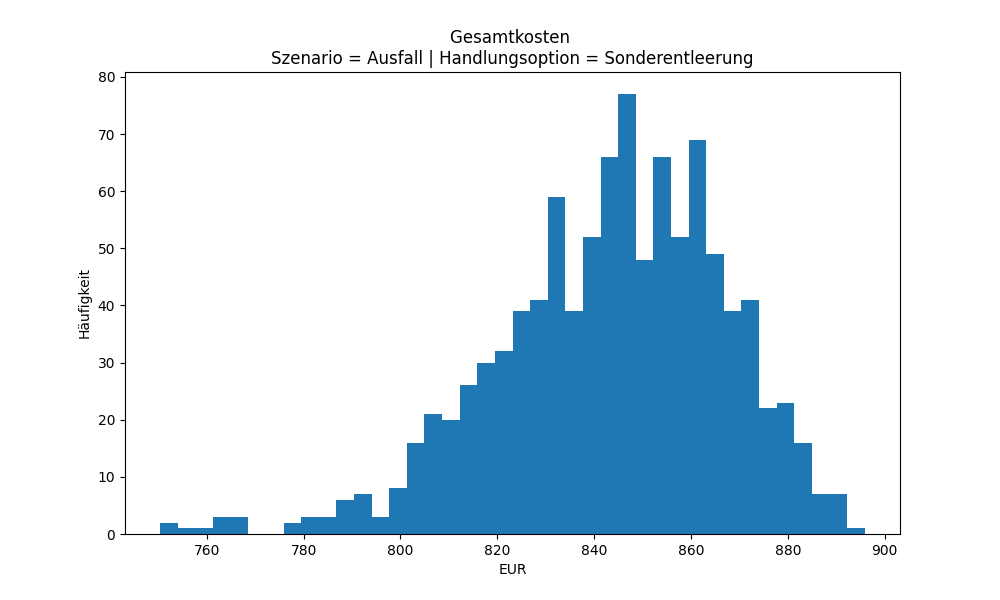
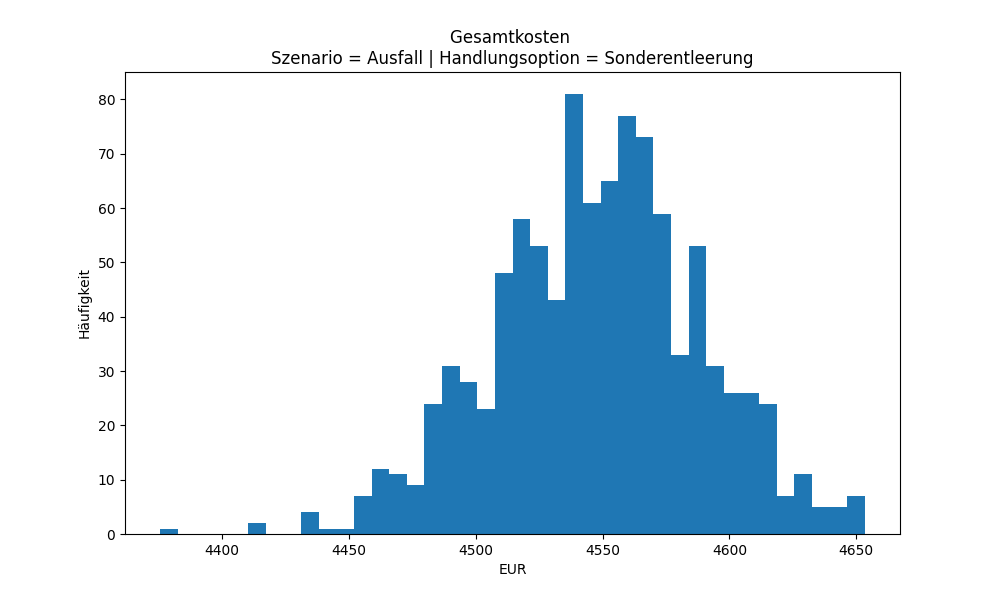
Sim Logik, Plots

diff --git a/simulation/simulation.py b/simulation/simulation.py
@@ -42,7 +42,7 @@ def simulation_einzeln(seed, szenario, handlungsoption):
         "kosten_tag": model.kosten_tag,
         "anzahl_bewohner_tag": model.anzahl_bewohner_tag, 
         "anzahl_besuch_tag": model.anzahl_besuch_tag,
-        "muellmenge_tag": model.muellmenge_tag,
+        "fuellmenge_tag": model.fuellmenge_tag,
         "kapazitaet_tag": model.kapazitaet_tag,
         "ueberfuellungsrate_tag": model.ueberfuellungsrate_tag,
         "sonderentleerung_kosten_tag": model.sonderentleerung_kosten_tag,
@@ -103,7 +103,7 @@ Jeden Tag wird Müll durch die Bewohner und ggf. den Gästen erzeugt. Die Anzahl
 Der Müll wird in die Mülltonne geschmissen (Füllstand hinzugefügt).
 Der Leertag der Mülltage wird zu Beginn der Simulation per Zufall gefällt.
 Alle 14 Tage erfolgt eine reguläre Leerung, solange der Leertag nicht auf einen Feiertag oder Ausfalltag fällt.
-Kommt es zu einer Überfüllung (Müllmenge > Kapazität), so entstehen Überfüllungszusatzkosten.
+Kommt es zu einer Überfüllung (Müllmenge > Kapazität), so entstehen Überfüllungszusatzkosten bei der Abhlung.
 Bei mehrfacher Überfüllung kann (wenn die Kapazitäten es hergeben) die Tonnenkapazität erhöht werden. 
 Bei der Handlungsoption Sonderentleerung wird beim Erreichen eines bestimmten Füllstands die Leerung ausgelöst. Diese verusacht zusätzliche Kosten.
 """
@@ -118,6 +118,8 @@ class MuellentsorgungsSystem:
         self.leertag = self.rng.randint(0, 4) # Montag=0/Dienstag=1/Mittwoch=2/Donnerstag=3/Freitag=4
         # Feiertage, die auf den Leertag fallen
         self.feiertage = berechne_feiertage(self.leertag, TAGE, START_JAHR)
+        # Zähler seit letzter Leerung
+        self.tage_seit_letzter_leerung = 0
 
         # Mülltonnen Startwerte
         self.kapazitaet = 80 # Kapazität
@@ -129,129 +131,110 @@ class MuellentsorgungsSystem:
         self.anzahl_bewohner_tag = [] # Anzahl der Bewohner
         self.anzahl_besuch_tag = [] # Anzahl der Besucher
         self.ausfall_tag = [] # Indikator, ob Ausfall stattgefunden hat
-        self.muellmenge_tag = [] # Füllmenge der Tonne
+        self.fuellmenge_tag = [] # Füllmenge der Tonne
         self.kapazitaet_tag = [] # Kapazität der Tonne
         self.ueberfuellungsrate_tag = [] # Überfüllungsrate
         self.sonderentleerung_kosten_tag = [] # Kosten für die Sonderentleerung
         self.ueberfuellung_kosten_tag = [] # Kosten bei Überfüllung 
 
         # Prozess starten 
-        self.env.process(self.muellproduktion()) # Müllproduktion
-        self.env.process(self.ueberfuellung()) # Überfüllung wird geprüft
-        self.env.process(self.leerung_regulaere()) # Reguläre Leerung der Tonne (alle 14 Tage)
-        self.env.process(self.leerung_sonder()) # Sonderleerung (bei Handlungsoption Sonderentleerung)
-        
+        self.env.process(self.muellzyklus_taeglich()) # Müllzyklus (Entstehung bis Entsorgung)
 
-    # Prozess: Müllproduktion  ---
-    def muellproduktion(self):
+    def muellzyklus_taeglich(self):
         while True:
             tag = int(self.env.now)
-            # Müll der Bewohner (Szenario: Normales Müllaufkommen)
-            anzahl_bewohner = ANZAHL_BEWOHNER 
+            # Bestimmung des Datums des aktuellen Tages (Für Feiertag)
+            tag_datum = date(START_JAHR, 1, 1) + timedelta(days=tag)
+            self.tage_seit_letzter_leerung += 1
+
+            # Indikator, ob Tag ein Leertag ist (Wenn Tag auf Wochen-Leertag fällt und zwei Wochen seit der letzten Leerung vergangen sind)
+            ist_leertag = (tag_datum.weekday() == self.leertag and self.tage_seit_letzter_leerung >= 14)
+            # Indikator, ob Tag ein Feiertag ist
+            ist_feiertag = (tag_datum in self.feiertage)
+
+
+            # -------------------------
+            # Prozess: Müllproduktion  
+
+            # Müll der Bewohner (Szenario: Normales Müllaufkommen):
+            anzahl_bewohner = ANZAHL_BEWOHNER
             # Mit eines Wahrscheinlichkeit sind die Bewohner aus dem Haus
             if self.rng.random() < P_ABWESEND:
                 anzahl_bewohner = self.rng.randint(0, anzahl_bewohner)
             self.fuellstand += anzahl_bewohner * DEFAULT_RESTMUELL_PRO_PERSON_TAG
 
             # Müll der Gäste (Szenario: erhöhter Besuch)
-            if self.rng.random() < self.szenario["P_BESUCH"]: 
-                anzahl_gaeste = self.rng.randint(1, 10) # Besucheranzahl zwischen 1 und 10
-                self.fuellstand += anzahl_gaeste * DEFAULT_RESTMUELL_PRO_PERSON_TAG * 0.15 # Müllmenge der Gäste entspricht lediglich 15 Prozent des reguläten Müllaufkommen pro Person
-                self.anzahl_besuch_tag.append(anzahl_gaeste)
+            anzahl_gaeste = 0
+            if self.rng.random() < self.szenario["P_BESUCH"]:
+                anzahl_gaeste = self.rng.randint(1, 10)  # Besucheranzahl zwischen 1 und 10
+                self.fuellstand += anzahl_gaeste * DEFAULT_RESTMUELL_PRO_PERSON_TAG * 0.25 # Müllmenge der Gäste entspricht lediglich 25 Prozent des reguläten Müllaufkommen pro Person
+            
+            self.anzahl_bewohner_tag.append(anzahl_bewohner) # Metrik (Anzahl der Bewohner)
+            self.anzahl_besuch_tag.append(anzahl_gaeste) # Metrik (Anzahl der Besucher)
+            self.ueberfuellungsrate_tag.append(ueberfuellungsrate(self.fuellstand, self.kapazitaet)) # Metrik (Überfüllungsrate)
+            self.fuellmenge_tag.append(self.fuellstand) # Metrik (Füllmenge der Tonne )
+            self.kapazitaet_tag.append(self.kapazitaet) # Metrik (Kapazität der Tonne)
 
-            # Metriken
-            self.anzahl_bewohner_tag.append(anzahl_bewohner)
-            self.muellmenge_tag.append(self.fuellstand) # Füllmenge der Tonne 
-            self.kapazitaet_tag.append(self.kapazitaet) # Kapazität der Tonne
-            self.ueberfuellungsrate_tag.append(ueberfuellungsrate(self.fuellstand, self.kapazitaet)) # Überfüllungsrate
+            # -------------------------
+            # Prozess: reguläre Leerung (Szenario: Normales Müllaufkommen/Ausfall) - Teil 1: Indikator
+            # Wenn Tag auf Leertag fällt, Tag keine Feiertag ist und an dem Tag kein Ausfall stattfindet (Szenario: Ausfall) wird geleert 
+            ist_ausfall = False
+            findet_regulaere_leerung_statt = False
+            if ist_leertag and (not ist_feiertag):
+                if self.rng.random() <= self.szenario["P_AUSFALL"]:
+                    ist_ausfall = True
+                else:
+                    findet_regulaere_leerung_statt = True
+                self.tage_seit_letzter_leerung = 0 # Zwei Wochen Zähler wird zurückgesetzte
+            self.ausfall_tag.append(ist_ausfall) # Metriken (Indikator, ob Ausfall stattgefunden hat)
 
-            # Zeitfortschritt (1 Zeiteinheit = 1 Tag)
-            yield self.env.timeout(1)
-    
-    # Prozess: Überfuellung ---
-    def ueberfuellung(self):
-        while True:
-            tag = int(self.env.now)
+            # -------------------------
+            # Prozess: Sonderentleerung (Handlungsoption: Sonderentleerung)
+            kosten_sonderentleerung = 0
+            # Wenn die Handlungsoption Sonderentleerung in der Simulation betrachtet wird, keine reguläre Leerung stattfindet und der Schwellenwert für die Sonderentleerung erreicht ist, findet eine Sonderentleerung statt
+            if (not findet_regulaere_leerung_statt and self.handlungsoption["sonderentleerung"] and (self.fuellstand / self.kapazitaet * 100) >= SONDERENTLEERUNG_FUELLMENGE_PROZENT):
+                self.fuellstand = 0 # Tonne wird geleert --> Füllstand wird zurückgesetzt, auf 0 
+                kosten_sonderentleerung = REST_MUELLTONE_KOSTEN_STAFFEL[self.kapazitaet] * 1.4 # Sonderkosten liegen 140 Prozent über den normal Kosten
+                # Quelle: Abfallwirtschaft Hohenlohekreis. Qualitätsoffensive. Abgerufen am 25.01.2026 von https://www.abfallwirtschaft-hohenlohekreis.de/leistungen-gebühren/qualitätsoffensive
+            self.sonderentleerung_kosten_tag.append(kosten_sonderentleerung) # Metrik (Kosten für die Sonderentleerung)
 
-            # Bestimmung des Datums des aktuellen Tag (für Feiertag)
-            tag_datum = date(START_JAHR, 1, 1) + timedelta(days=tag)
-
-            # Wenn Tag auf Leertag fällt, Tag keine Feiertag ist und an dem Tag kein Ausfall stattfindet (Szenario: Ausfall) wird geleert --> Überfüllungskosten/Kapazitätsausbau (Handlungsoption: Kapazitätsausbau) findet statt
-            if tag % 14 == self.leertag and tag_datum not in self.feiertage and self.rng.random() > self.szenario["P_AUSFALL"]:
-
-                # Überfüllungskosten
+            # -------------------------
+            # Prozess: Überfuellung
+            kosten_ueberfuellung = 0
+            if findet_regulaere_leerung_statt:
+                # Überfüllungskosten:
                 ueber_liter = max(0, self.fuellstand - self.kapazitaet) # Überfüllungsmenge in Liter
                 kosten_ueberfuellung = ueberfuellungskosten(ueber_liter) # Überfüllungskosten
-                # Metriken
-                self.ueberfuellung_kosten_tag.append(kosten_ueberfuellung) # Kosten bei Überfüllung 
                 
-                ueberrate = ueberfuellungsrate(self.fuellstand, self.kapazitaet)
-
-
-                # Anzahl der Überfülllungen 
-                if ueberrate >= 100:
+                # Anzahl der Überfülllungen:
+                if self.fuellstand > self.kapazitaet:
                     self.wochen_ueberfuellt += 1
                 else:
                     self.wochen_ueberfuellt = 0
 
-                # Wenn die Handlungsoption Kapazitaetsausbau in der Simulation betrachtet wird und in drei aufeianderfolgendenden Wochen es zu einer Überfüllung kam, wird die Kapazität erweitert.
+                # Wenn die Handlungsoption Kapazitaetsausbau in der Simulation betrachtet wird und in nach drei aufeianderfolgendenden Leerungen es zu einer Überfüllung kam, wird die Kapazität erweitert.
                 if self.handlungsoption["kapazitaetsausbau"] and self.wochen_ueberfuellt >= 3:
                     # Bestimmung der möglichen Kapazitätsgrößen
                     potenzielle_tonnen_kapa = [kapa for kapa in REST_MUELLTONE_STAFFEL if kapa > self.kapazitaet]
                     if potenzielle_tonnen_kapa:
                         self.kapazitaet = min(potenzielle_tonnen_kapa) # Auswahl der nächst größeren Kapazität
                     self.wochen_ueberfuellt = 0 # Zähler für Überfüllungsanzahl auf 0 setzten
+            self.ueberfuellung_kosten_tag.append(kosten_ueberfuellung) # Metrik (Kosten bei Überfüllung) 
 
-                # Gesamtkosten (Basiskosten + Überfüllung + Sonderleerung)
-                kosten = REST_MUELLTONE_KOSTEN_STAFFEL[self.kapazitaet]
-                kosten_sonderentleerung = self.sonderentleerung_kosten_tag[-1] if self.sonderentleerung_kosten_tag else 0
-                kosten_gesamt = kosten + kosten_sonderentleerung + kosten_ueberfuellung
-                # Metriken
-                self.kosten_tag.append(kosten_gesamt)  # Kosten
-            else:
-                # Bei Feiertagen/Ausfall fällt keine Leerung an --> keine Kosten, keine Überfüllungskosten
-                self.ueberfuellung_kosten_tag.append(0)
-                self.kosten_tag.append(0)
+            # -------------------------
+            # Prozess: reguläre Leerung (Szenario: Normales Müllaufkommen/Ausfall) - Teil 2: Tatsächliche Leerung inkl. Kostenbestimmung
+            tonnen_kosten = 0
+            if findet_regulaere_leerung_statt:
+                self.fuellstand = 0
+                tonnen_kosten = REST_MUELLTONE_KOSTEN_STAFFEL[self.kapazitaet]
 
-            yield self.env.timeout(1)
-
-    # Prozess: reguläre Leerung (Szenario: Normales Müllaufkommen/Ausfall) ---
-    def leerung_regulaere(self):
-        while True:
-            tag = int(self.env.now)
-            # Bestimmung des Datums des aktuellen Tages (Für Feiertag)
-            tag_datum = date(START_JAHR, 1, 1) + timedelta(days=tag)
-            # Wenn Tag auf Leertag fällt, Tag keine Feiertag ist und an dem Tag kein Ausfall stattfindet (Szenario: Ausfall) wird geleert 
-            ist_ausfall = False
-            if tag % 14 == self.leertag and tag_datum not in self.feiertage:
-                if self.rng.random() <= self.szenario["P_AUSFALL"]:
-                    ist_ausfall = True
-                else:
-                    self.fuellstand = 0  #  Tonne wird geleert --> Füllstand wird zurückgesetzt, auf 0 
-            # Metriken
-            self.ausfall_tag.append(ist_ausfall) # Indikator ob Ausfall stattgefunden hat
+            # Gesamtkosten (Basiskosten + Überfüllung + Sonderleerung)
+            self.kosten_tag.append(tonnen_kosten + kosten_ueberfuellung + kosten_sonderentleerung) # Metrik (Kosten)
 
             # Zeitfortschritt (1 Zeiteinheit = 1 Tag)
-            yield self.env.timeout(1)
+            yield self.env.timeout(1) 
 
-    # Prozess: Sonderentleerung (Handlungsoption: Sonderentleerung) ---
-    def leerung_sonder(self):
-        while True:
-            kosten_sonderentleerung = 0
-            # Wenn die Handlungsoption Sonderentleerung in der Simulation betrachtet wird, und der Schwellenwert für die Sonderentleerung erreicht ist, findet eine Sonderentleerung statt
-            if (self.handlungsoption["sonderentleerung"] and ueberfuellungsrate(self.fuellstand, self.kapazitaet)>= SONDERENTLEERUNG_FUELLMENGE_PROZENT):
-                self.fuellstand = 0 # Tonne wird geleert --> Füllstand wird zurückgesetzt, auf 0 
-                
-                kosten_sonderentleerung = REST_MUELLTONE_KOSTEN_STAFFEL[self.kapazitaet] * 2.4 # Sonderkosten liegen 240 Prozent über den normal Kosten
-                # Quelle: Abfallwirtschaft Hohenlohekreis. Qualitätsoffensive. Abgerufen am 25.01.2026 von https://www.abfallwirtschaft-hohenlohekreis.de/leistungen-gebhren/qualittsoffensive
-
-            # Metriken
-            self.sonderentleerung_kosten_tag.append(kosten_sonderentleerung) #  Kosten für die Sonderentleerung
-
-            # Zeitfortschritt (1 Zeiteinheit = 1 Tag)
-            yield self.env.timeout(1)
-
-
+    
 # --------------------------
 # ---------- Ende ----------
 # --------------------------

diff --git a/simulation/funktionen.py b/simulation/funktionen.py
@@ -68,7 +68,11 @@ Funktionsweise:     Abhängig von der betrachteten Tage, wird der betrachtete Ze
 """
 def berechne_feiertage(leertag, tage, start_jahr):
     start_date = date(start_jahr, 1, 1) # Startdatum
-    feiertage = holidays.Germany(years=start_jahr, subdiv="BY") # Liste der bayerischen Feiertage
+    end_date = start_date + timedelta(days=tage-1) # Enddatum
+
+    jahre = range(start_date.year, end_date.year + 1) # Bestimme die betracheteten Jahre
+
+    feiertage = holidays.Germany(years=jahre, subdiv="BY") # Liste der bayerischen Feiertage
     leertag_feiertage = set()
 
     for t in range(tage): # Prüfung der einzelnen Tage
@@ -126,21 +130,21 @@ def berechnung_statistiken(ergebnisse):
 
 
 """
-Funktion:           Erstellung eines Histogramms für die Metriken Gesamtkosten und Gesamtmüllmenge
+Funktion:           Erstellung eines Histogramms für die Metriken Gesamtkosten und Gesamtfüllmenge
 Input:              ergebnisse (Simulationsergebnisse)
                     szenario_name (Szenarioname)
                     handlungsoption_name (Handlungsoptionsname)
-Funktionsweise:     Für die beiden Metriken kosten_tag (Gesamtkosten) und muellmenge_tag (Gesamtmüllmenge) werden die gesamten Simulationswerte aggregiert.
+Funktionsweise:     Für die beiden Metriken kosten_tag (Gesamtkosten) und fuellmenge_tag (Gesamtfüllmenge) werden die gesamten Simulationswerte aggregiert.
                     Für jede Metrik wird ein Histogramm erzeugt und als png-Datei gespeichert
 """
 def grafik_histogramme(ergebnisse, szenario_name, handlungsoption_name):
     # Aggregation der Werte
     gesamtkosten = [sum(ergebnis["kosten_tag"]) for ergebnis in ergebnisse]  # Gesamtkosten
-    gesamtmuell = [sum(ergebnis["muellmenge_tag"]) for ergebnis in ergebnisse] # Gesamtmüllmenge
+    gesamtfuellmenge = [sum(ergebnis["fuellmenge_tag"]) for ergebnis in ergebnisse] # Gesamtfüllmenge
 
     list_plot_info = [
         (gesamtkosten, "Gesamtkosten", "EUR", "gesamtkosten"),
-        (gesamtmuell, "Gesamtmüllmenge", "Liter", "gesamtmuell"),
+        (gesamtfuellmenge, "Gesamtfüllmenge", "Liter", "gesamtfuellmenge"),
     ]
 
     # Histogramm

diff --git a/simulation/main.py b/simulation/main.py
@@ -56,7 +56,7 @@ if __name__ == "__main__":
 
     # Die einzelnen Plots der Gesamtkosten und des Gesamtmülls werden in einem 3x3 Plot gespeichert
     gerniere_subplot("gesamtkosten")
-    gerniere_subplot("gesamtmuell")
+    gerniere_subplot("gesamtfuellmenge")
 
 # --------------------------
 # ---------- Ende ----------
